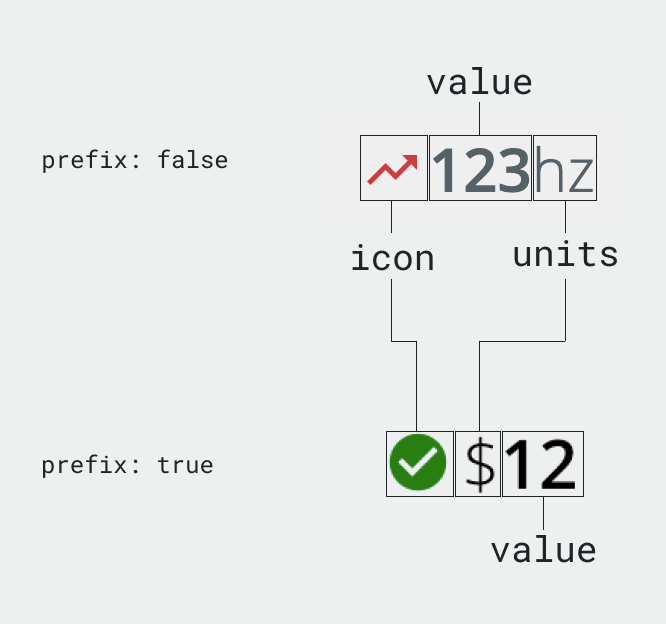
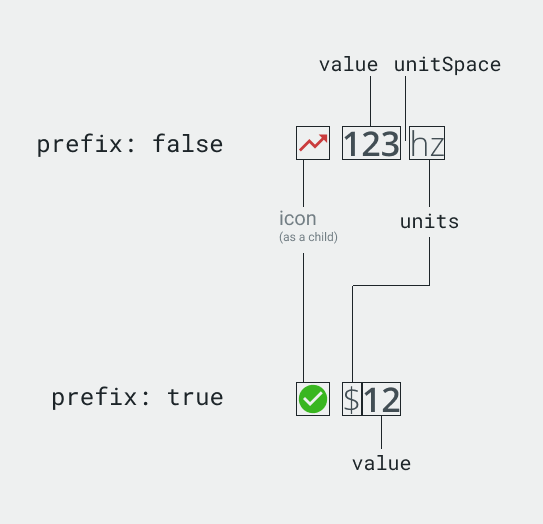
update changelog

diff --git a/components/src/core/ChannelValue/ChannelValue.tsx b/components/src/core/ChannelValue/ChannelValue.tsx
@@ -32,8 +32,6 @@ export type ChannelValueProps = Omit<HTMLAttributes<HTMLSpanElement>, 'prefix'> 
     prefix?: boolean;
     /** Text to display for the units (light text) */
     units?: string;
-    /** Text to display for the value (bold text) */
-    value: number | string;
     /** Whether to show a space between the value and units
      *
      * Default: auto (shows space except for white list items)
@@ -41,7 +39,9 @@ export type ChannelValueProps = Omit<HTMLAttributes<HTMLSpanElement>, 'prefix'> 
      * prefixUnitWhitelist: ['$'];
      * suffixUnitWhitelist: ['%', '℉','°F','℃','°C','°']
      */
-     unitSpace?: 'show' | 'hide' | 'auto';
+    unitSpace?: 'show' | 'hide' | 'auto';
+    /** Text to display for the value (bold text) */
+    value: number | string;
 };
 
 const useStyles = makeStyles((theme: Theme) =>
@@ -54,7 +54,7 @@ const useStyles = makeStyles((theme: Theme) =>
             color: (props: ChannelValueProps): string => props.color,
         },
         icon: {
-            marginRight: '0.35em',
+            marginRight: '0.35rem',
             display: 'inline',
             fontSize: 'inherit',
         },
@@ -63,24 +63,21 @@ const useStyles = makeStyles((theme: Theme) =>
             lineHeight: 'inherit',
             letterSpacing: 0,
         },
+        prefix: {
+            '& + h6': {
+                marginLeft: '0.25rem',
+            },
+        },
+        suffix: {},
         units: {
             fontWeight: 300,
         },
         value: {
             fontWeight: 600,
             '& + $suffix': {
-                marginLeft: '0.25em',
+                marginLeft: '0.25rem',
             },
         },
-        prefix: {
-            color: 'green',
-            '& + h6': {
-                marginLeft: '0.25em',
-            },
-        },
-        suffix: {
-            color: 'red',
-        }
     })
 );
 
@@ -109,16 +106,16 @@ const ChannelValueRender: React.ForwardRefRenderFunction<unknown, ChannelValuePr
     } = props;
     const defaultClasses = useStyles(props);
     const prefixUnitWhitelist = ['$'];
-    const suffixUnitWhitelist = ['%', '℉','°F','℃','°C','°'];
+    const suffixUnitWhitelist = ['%', '℉', '°F', '℃', '°C', '°'];
     const applyPrefix = useCallback((): boolean => {
-        if((!prefixUnitWhitelist.includes(units) && unitSpace !== 'hide') || unitSpace === 'show') {
-            return true
+        if ((!prefixUnitWhitelist.includes(units) && unitSpace !== 'hide') || unitSpace === 'show') {
+            return true;
         }
     }, [prefix, units, unitSpace]);
 
     const applySuffix = useCallback((): boolean => {
-        if((!suffixUnitWhitelist.includes(units) && unitSpace !== 'hide') || unitSpace === 'show') {
-            return true
+        if ((!suffixUnitWhitelist.includes(units) && unitSpace !== 'hide') || unitSpace === 'show') {
+            return true;
         }
     }, [prefix, units, unitSpace]);
 
@@ -129,8 +126,6 @@ const ChannelValueRender: React.ForwardRefRenderFunction<unknown, ChannelValuePr
                     <Typography
                         variant={'h6'}
                         color={'inherit'}
-                        // className={clsx(defaultClasses.text, defaultClasses.units, classes.units)}
-                        // className={clsx([defaultClasses.text, defaultClasses.units, classes.units, prefix && applyPrefix() ? defaultClasses.prefix : 'ekta'])}
                         className={clsx(defaultClasses.text, defaultClasses.units, classes.units, {
                             [defaultClasses.prefix]: prefix && applyPrefix(),
                             [defaultClasses.suffix]: !prefix && applySuffix(),

diff --git a/demos/storybook/stories/channel-value/with-full-config.tsx b/demos/storybook/stories/channel-value/with-full-config.tsx
@@ -14,14 +14,20 @@ export const withFullConfig = (): StoryFnReactReturnType => {
     const iconColor = color('icon.htmlColor', Colors.red[500]);
     const icon = boolean('Show Icon', true) ? (
         <Trend htmlColor={iconColor} style={getLeftToRightIconTransform()} />
-    ) : (
-        undefined
-    );
+    ) : undefined;
     const fontSize = number('fontSize', 30);
     const prefix = boolean('prefix', false);
     const unitSpace = select('unitSpace', ['show', 'hide', 'auto'], 'auto');
     return (
-        <ChannelValue value={value} units={units} color={textColor} icon={icon} fontSize={fontSize} prefix={prefix} unitSpace={unitSpace} />
+        <ChannelValue
+            value={value}
+            units={units}
+            color={textColor}
+            icon={icon}
+            fontSize={fontSize}
+            prefix={prefix}
+            unitSpace={unitSpace}
+        />
     );
 };
 

diff --git a/docs/ChannelValue.md b/docs/ChannelValue.md
@@ -24,15 +24,16 @@ import { ChannelValue } from '@brightlayer-ui/react-components';
 
 <div style="overflow: auto;">
 
-| Prop Name | Description                                    | Type                  | Required | Default   |
-| --------- | ---------------------------------------------- | --------------------- | -------- | --------- |
-| color     | The color of the font                          | `string`              | no       | 'inherit' |
-| classes   | Style overrides                                | `ChannelValueClasses` | no       |           |
-| fontSize  | The size of the font                           | `string` \| `number`  | no       | 'inherit' |
-| icon      | The inline icon to display                     | `JSX.Element`         | no       |           |
-| prefix    | Show units before the value                    | `boolean`             | no       | false     |
-| units     | The text to display for the units (light text) | `string`              | no       |           |
-| value     | The value (bold text) to display               | `string` \| `number`  | yes      |           |
+| Prop Name | Description                                    | Type                             | Required | Default   |
+| --------- | ---------------------------------------------- | -------------------------------- | -------- | --------- |
+| color     | The color of the font                          | `string`                         | no       | 'inherit' |
+| classes   | Style overrides                                | `ChannelValueClasses`            | no       |           |
+| fontSize  | The size of the font                           | `string` \| `number`             | no       | 'inherit' |
+| icon      | The inline icon to display                     | `JSX.Element`                    | no       |           |
+| prefix    | Show units before the value                    | `boolean`                        | no       | false     |
+| units     | The text to display for the units (light text) | `string`                         | no       |           |
+| unitSpace | Show/Hide spacing between the value and units  | `'auto'` \| `'hide'` \| `'show'` | yes      | 'auto'    |
+| value     | The value (bold text) to display               | `string` \| `number`             | yes      |           |
 
 </div>
 

diff --git a/CHANGELOG.md b/CHANGELOG.md
@@ -7,6 +7,7 @@
 -   Added `chevronColor` property onto `<InfoListItem>`.
 -   Added `chevronIcon` class for `chevron` element in `<InfoListItem>`.
 -   Added 1rem default padding to the root styles of `<EmptyState>`. ([#320](https://github.com/brightlayer-ui/react-component-library/issues/320))
+-   Added new property `unitSpace` to `<ChannelValue>` to manage spacing between the value and units. ([#350](https://github.com/brightlayer-ui/react-component-library/issues/350))
 
 ## v5.3.3 (December 6, 2021)
 
